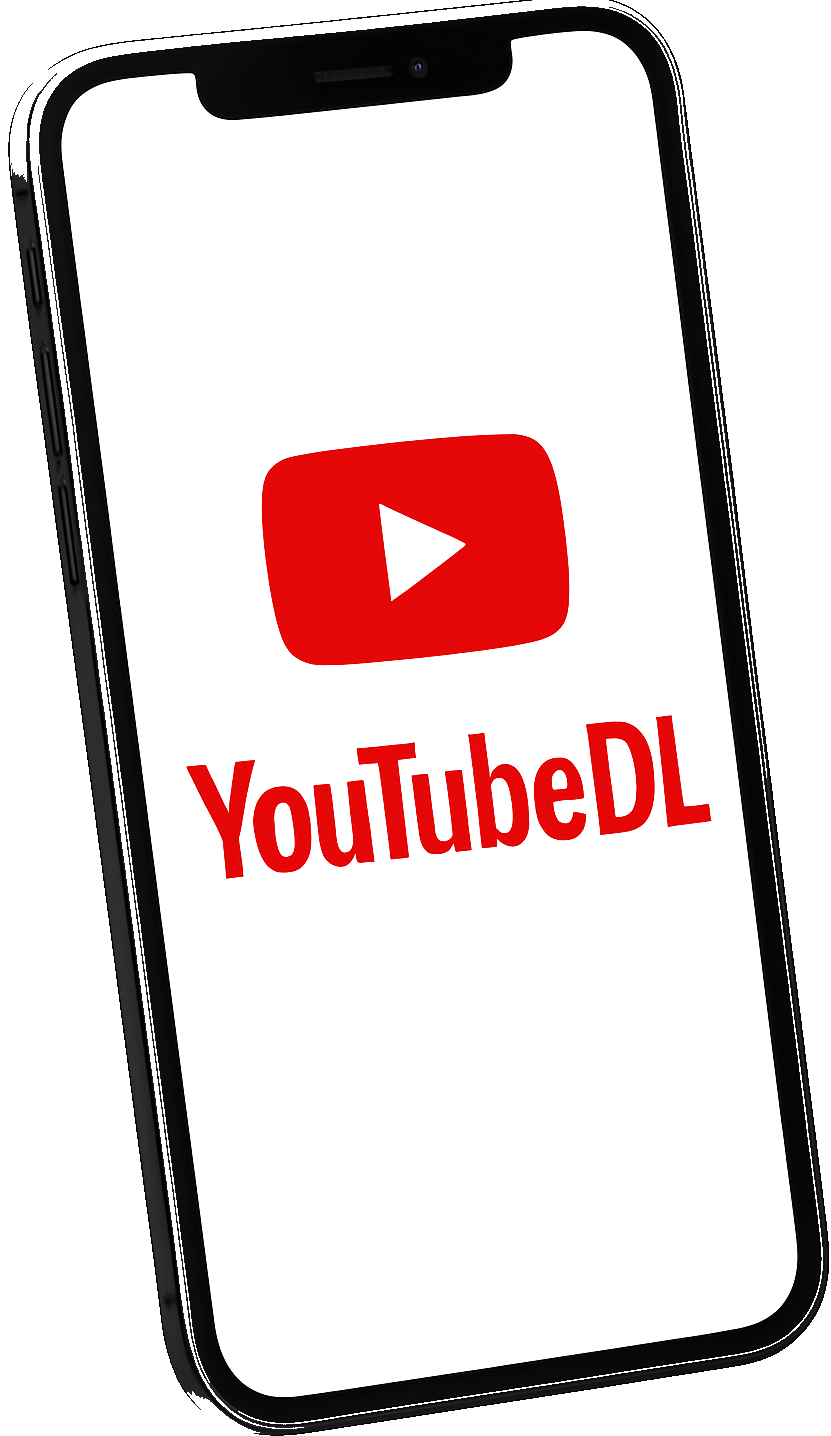
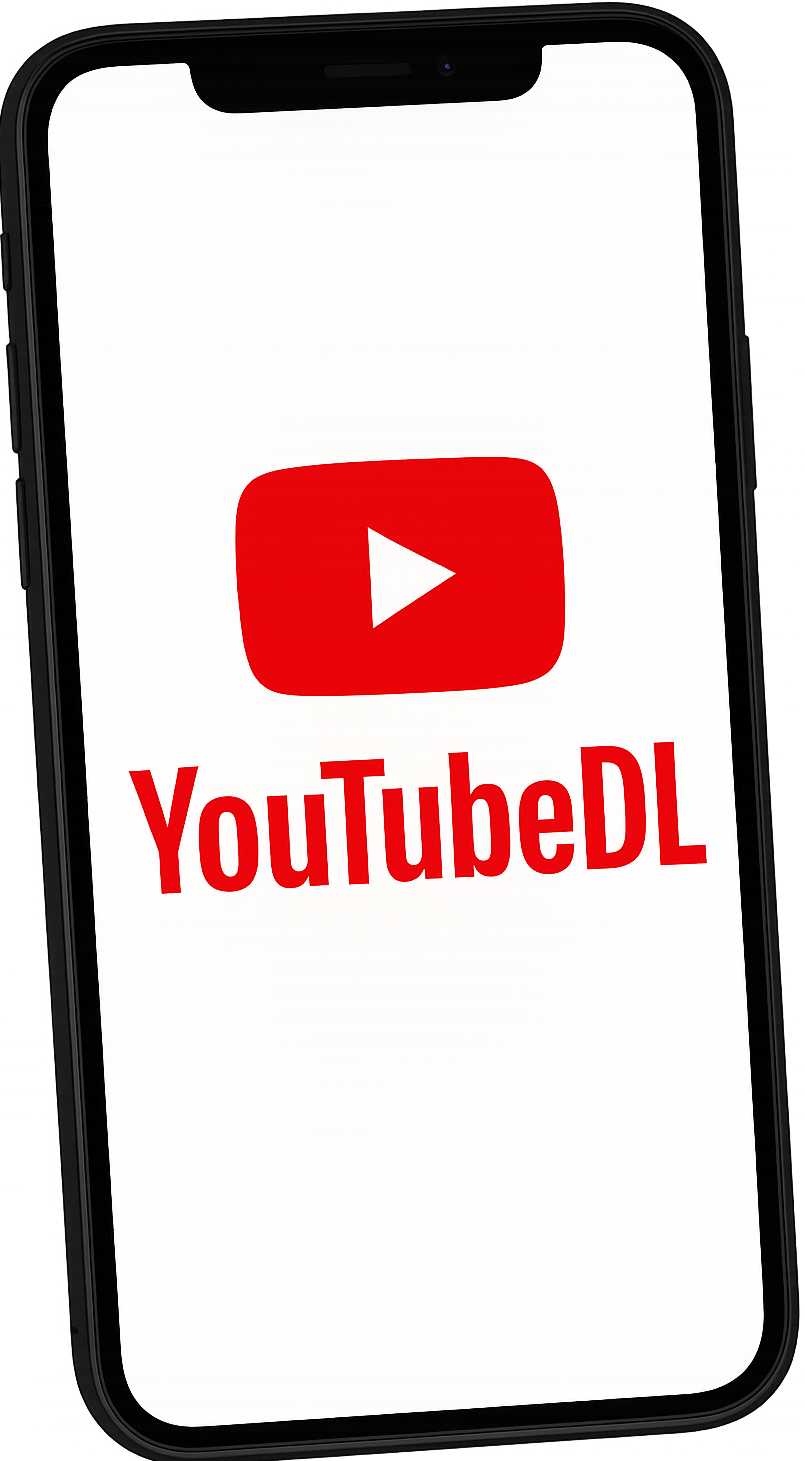
use rapid api for video & shorts & mobile img change

Changed region(s): [[0.0, 0.0, 1.0, 1.0]]

diff --git a/apps/yt-download/src/pages/api/youtube.js b/apps/yt-download/src/pages/api/youtube.js
@@ -1,78 +1,43 @@
-// import { getYoutubeVideoData } from "@/lib/youtubeData";
-// import { getYoutubePostData } from "@/lib/youtubeiPost";
-
-// export default async function handler(req, res) {
-//     if (req.method !== "POST") {
-//         return res.status(405).json({ error: "Method not allowed" });
-//     }
-
-//     try {
-//         const { url } = req.body;
-//         if (!url) return res.status(400).json({ error: "Missing URL" });
-
-//         const u = new URL(url);
-
-//         // ---- Detect type ----
-//         if (u.pathname.startsWith("/post/")) {
-//             // YouTube Post
-//             const postId = u.pathname.split("/post/")[1];
-//             if (!postId) return res.status(400).json({ error: "Invalid post URL" });
-
-//             const postData = await getYoutubePostData(postId);
-//             return res.status(200).json({ detectedType: "post", ...postData });
-//         } else {
-//             // Video or Shorts
-//             let videoId = null;
-//             if (u.searchParams.has("v")) videoId = u.searchParams.get("v");
-//             else if (/\/shorts\/([a-zA-Z0-9_-]+)/.test(u.pathname))
-//                 videoId = u.pathname.split("/shorts/")[1];
-//             else return res.status(400).json({ error: "Invalid YouTube video URL" });
-
-//             const videoData = await getYoutubeVideoData(videoId);
-//             return res.status(200).json({
-//                 detectedType: /\/shorts\//i.test(url) ? "shorts" : "video",
-//                 ...videoData,
-//             });
-//         }
-//     } catch (err) {
-//         console.error("API error:", err);
-//         res.status(500).json({ error: err.message || "Server error" });
-//     }
-// }
-import { getYoutubeVideoData } from "@/lib/youtubeData";
-import { getYoutubePostData } from "@/lib/youtubeiPost";
+import { fetchYoutubeMedia, fetchYoutubePost } from "@/lib/youtubeRapidApis";
 
 export default async function handler(req, res) {
     if (req.method !== "POST") {
         return res.status(405).json({ error: "Method not allowed" });
     }
 
+    const { url } = req.body;
+    if (!url) return res.status(400).json({ error: "Missing URL" });
+
+    const getMediaTypeFromUrl = (url) => {
+        if (/\/shorts\//i.test(url)) return "shorts";
+        if (/\/watch\//i.test(url) || /v=/.test(url)) return "video";
+        if (/\/posts?\//i.test(url)) return "post";
+        return "video";
+    };
+
+    const detectedType = getMediaTypeFromUrl(url);
+
     try {
-        const { url } = req.body;
-        if (!url) return res.status(400).json({ error: "Missing URL" });
+        let data;
 
-        const u = new URL(url);
+        if (detectedType === "video" || detectedType === "shorts") {
+            const match = url.match(
+                /(?:v=|youtu\.be\/|embed\/|shorts\/)([a-zA-Z0-9_-]{11})/
+            );
+            const videoId = match ? match[1] : null;
 
-        // ---- Detect type ----
-        if (u.pathname.startsWith("/post/")) {
-            const postData = await getYoutubePostData(url);
-            return res.status(200).json({ detectedType: "post", ...postData });
-        } else {
-            // Video or Shorts
-            let videoId = null;
-            if (u.searchParams.has("v")) videoId = u.searchParams.get("v");
-            else if (/\/shorts\/([a-zA-Z0-9_-]+)/.test(u.pathname))
-                videoId = u.pathname.split("/shorts/")[1];
-            else return res.status(400).json({ error: "Invalid YouTube video URL" });
+            if (!videoId) throw new Error("Invalid YouTube video URL");
 
-            const videoData = await getYoutubeVideoData(videoId);
-            return res.status(200).json({
-                detectedType: /\/shorts\//i.test(url) ? "shorts" : "video",
-                ...videoData,
-            });
+            data = await fetchYoutubeMedia(videoId);
+            console.log("API response data ------------", data);
+        } else if (detectedType === "post") {
+            const match = url.match(/posts?\/([a-zA-Z0-9_-]+)/);
+            const postId = match ? match[1] : null;
+            data = await fetchYoutubePost(postId);
         }
+        return res.status(200).json(data);
     } catch (err) {
-        console.error("API error:", err);
-        res.status(500).json({ error: err.message || "Server error" });
+        console.error(err);
+        return res.status(500).json({ error: err.message || "Server error" });
     }
 }

diff --git a/apps/yt-download/src/youtubeModal/ui/BottomActivityPanel/BottomActivityPanel.jsx b/apps/yt-download/src/youtubeModal/ui/BottomActivityPanel/BottomActivityPanel.jsx
@@ -27,17 +27,36 @@ export default function BottomActivityPanel({ data }) {
     comments,
   } = data;
 
-  console.log(currentMediaUrl, "check here-------------");
+  // const handleDownloadClick = (url, index) => {
+  //   if (!url || typeof url !== "string") return;
 
+  //   const a = document.createElement("a");
+  //   a.href =
+  //     "https://rr4---sn-p5qs7nzr.googlevideo.com/videoplayback?expire=1758822488&ei=-CvVaK24B4TLsfIP3ryBiQg&ip=38.13.172.67&id=o-AM3O4Ag222VqpkWdKDaRiSP1WBs663sATEbVP5uAVX4k&itag=18&source=youtube&requiressl=yes&xpc=EgVo2aDSNQ%3D%3D&met=1758800888%2C&mh=K9&mm=31%2C26&mn=sn-p5qs7nzr%2Csn-vgqsrnzz&ms=au%2Conr&mv=m&mvi=4&pl=22&rms=au%2Cau&initcwndbps=523750&bui=ATw7iSVFvVMBGQTSUAUEce9G2J7TvuCbEfYt8_kqAgg9UxWRjns-sBhu8KjKCRgOB1mD8bFedXYKACF4&spc=hcYD5efxicr8JYG0eQt7g6qzYP3hV88jG-pW3yvWJSO_ShcMfAg5gFPbI6RhanMAG6-3zg&vprv=1&svpuc=1&mime=video%2Fmp4&ns=m8vtw9mrC4U92baYtI-8YQUQ&rqh=1&gir=yes&clen=48202904&ratebypass=yes&dur=905.090&lmt=1758620704984639&mt=1758800233&fvip=1&fexp=51355912%2C51514994%2C51552689%2C51565116%2C51565682%2C51580968&c=WEB&sefc=1&txp=5538534&n=M13LwnWAbJWO3A&sparams=expire%2Cei%2Cip%2Cid%2Citag%2Csource%2Crequiressl%2Cxpc%2Cbui%2Cspc%2Cvprv%2Csvpuc%2Cmime%2Cns%2Crqh%2Cgir%2Cclen%2Cratebypass%2Cdur%2Clmt&sig=AJfQdSswRQIgLaaAuKPmYN8AiM8uN638A1CikqUWgEcdUZ6jGn8dlOACIQCVv8b_ZHY-bwLaGoLA_Pq55MZVujRrObwE5fJlW3Uimw%3D%3D&lsparams=met%2Cmh%2Cmm%2Cmn%2Cms%2Cmv%2Cmvi%2Cpl%2Crms%2Cinitcwndbps&lsig=APaTxxMwRgIhAI3nZD-FiJerCINnjhSMEiQR2hq8J0Zy3GGvl-RMEyj-AiEAqSGq7u062hY9iRc_G0z-jACqqTFjsa5HMIOT_1J1BFQ%3D&pot=MnQEBRYBYqAlowQ9gzyJJ_WL_SfJAjXgvn2MAEaM3ioXdVHTvm0n5VAhzREO7J3UAzFdknbBDMgBzsbGcoQCdH6iVw3N4Z79bmJ4UR_69thvyqOGsaYgrV1PPJ7qQ_vygL5nrq5YBJmZzAYjaKGI1Vd7YXkOOw%3D%3D&range=0-";
+  //   a.download = `video-${index + 1}.mp4`;
+  //   document.body.appendChild(a);
+  //   a.click();
+  //   a.remove();
+  // };
   const handleDownloadClick = (url, index) => {
     if (!url || typeof url !== "string") return;
 
-    const videoId = url.split("/embed/")[1]; // extract videoId from embed URL
     const a = document.createElement("a");
-    a.href = `/api/download-video?videoId=${videoId}`;
+    a.href = `/api/download?url=${encodeURIComponent(url)}`;
     a.download = `video-${index + 1}.mp4`;
+    document.body.appendChild(a);
     a.click();
+    a.remove();
   };
+
+  // const handleDownloadClick = (m, index) => {
+  //   if (!m || typeof m !== "string") return;
+
+  //   const a = document.createElement("a");
+  //   a.href = m;
+  //   a.download = `video-${index + 1}.mp4`;
+  //   a.click();
+  // };
 
   const handleShareClick = () => {
     sendGAEvent("share_media_click", { mediaCount: mediaUrls.length });
@@ -77,8 +96,9 @@ export default function BottomActivityPanel({ data }) {
         <div className={styles.shareDownload}>
           <button
             className={styles.shareBtn}
-            onClick={() =>
-              handleDownloadClick(currentMediaUrl, currentMediaIndex)
+            onClick={
+              () => handleDownloadClick(currentMediaUrl, currentMediaIndex)
+              // <a href="/"></a>
             }
           >
             {mediaUrls.length > 1

diff --git a/apps/yt-download/src/lib/youtubeRapidApis.js b/apps/yt-download/src/lib/youtubeRapidApis.js
@@ -1,0 +1,54 @@
+import axios from "axios";
+import parseCountText from "@/utils/commentCount";
+
+export async function fetchYoutubeMedia(videoId) {
+    const options = {
+        method: "GET",
+        url: "https://youtube-media-downloader.p.rapidapi.com/v2/video/details",
+        params: {
+            videoId,
+            urlAccess: "normal",
+            videos: "auto",
+            audios: "auto",
+        },
+        headers: {
+            "x-rapidapi-key": process.env.RAPIDAPI_KEY,
+            "x-rapidapi-host": "youtube-media-downloader.p.rapidapi.com",
+        },
+    };
+
+    const response = await axios.request(options);
+    const data = response.data;
+
+    console.log(data, "youtube api response --------");
+
+    const videoItem = data.videos?.items?.[0];
+
+    return {
+        id: videoId,
+        title: data.title || "",
+        description: data.description || "",
+        thumbnail: data.thumbnail || "",
+        media: videoItem ? [{ url: videoItem.url }] : [],
+        statistics: {
+            viewCount: data.viewCount || 0,
+            likeCount: data.likeCount || 0,
+            commentCount: parseCountText(data.commentCountText) || 0,
+        },
+        detectedType: "video",
+        type: "video",
+    };
+}
+
+export async function fetchYoutubePost(postId) {
+    return {
+        id: postId || "unknown",
+        title: "Post Placeholder",
+        description: "",
+        thumbnail: "",
+        media: [],
+        statistics: {},
+        detectedType: "post",
+        type: "post",
+    };
+}

diff --git a/apps/yt-download/src/utils/api.js b/apps/yt-download/src/utils/api.js
@@ -8,37 +8,19 @@ export function getMediaTypeFromUrl(url) {
 export async function downloadYoutubeMedia(url) {
     if (!url || !url.trim()) throw new Error("Please enter a URL");
 
-    const detectedType = getMediaTypeFromUrl(url);
-
     const res = await fetch("/api/youtube", {
         method: "POST",
-        headers: { "Content-Type": "application/json" },
+        headers: { "Content-Type": "application/json", "Content-Disposition": `attachment;filename=video.mp4` },
         body: JSON.stringify({ url }),
     });
 
     const data = await res.json();
+    console.log("api data--------------", data)
+
     if (!res.ok) throw new Error(data.error || "Server error");
 
     const normalized = { ...data };
-
-    normalized.detectedType = detectedType;
-    normalized.type = detectedType;
-
-    if (Array.isArray(normalized.media)) {
-        normalized.media = normalized.media.map((m) => {
-            if (!m || !m.url) return m;
-
-            if (m.url.includes("youtube.com/embed/")) return m;
-
-            const match = (m.url + " " + (normalized.id || "")).match(
-                /(?:v=|youtu\.be\/|embed\/|shorts\/)([a-zA-Z0-9_-]{11})/
-            );
-            const vid = match ? match[1] : normalized.id;
-            const embed = vid ? `https://www.youtube.com/embed/${vid}` : m.url;
-            return { ...m, url: embed };
-        });
-    }
-
+    console.log(normalized, "data normal-------------")
     return normalized;
 }
 

diff --git a/apps/yt-download/src/pages/api/download.js b/apps/yt-download/src/pages/api/download.js
@@ -1,0 +1,21 @@
+import axios from "axios";
+
+export default async function handler(req, res) {
+    const { url } = req.query;
+
+    if (!url) {
+        return res.status(400).json({ error: "Missing video URL" });
+    }
+
+    try {
+        const response = await axios.get(url, { responseType: "stream" });
+
+        res.setHeader("Content-Disposition", "attachment; filename=video.mp4");
+        res.setHeader("Content-Type", "video/mp4");
+
+        response.data.pipe(res);
+    } catch (err) {
+        console.error("Download error:", err.message);
+        res.status(500).json({ error: "Failed to download video" });
+    }
+}

diff --git a/apps/yt-download/src/youtubeModal/ui/MediaVideo/MediaVideo.jsx b/apps/yt-download/src/youtubeModal/ui/MediaVideo/MediaVideo.jsx
@@ -6,13 +6,9 @@ export default function MediaVideo({ src }) {
 
   return (
     <div className={styles.videoWrapper}>
-      <iframe
-        src={`${src}?autoplay=1&mute=1`}
-        title="YouTube video player"
-        frameBorder="0"
-        allow="accelerometer; autoplay; clipboard-write; encrypted-media; gyroscope; picture-in-picture"
-        allowFullScreen
-      />
+      <video src={src} controls autoPlay muted loop className={styles.video}>
+        Your browser does not support the video tag.
+      </video>
     </div>
   );
 }

diff --git a/apps/yt-download/src/dataStore/mediaPreviewTypes.js b/apps/yt-download/src/dataStore/mediaPreviewTypes.js
@@ -9,7 +9,6 @@ export const previewComponentMap = {
     video: (props) => <VideoPreview {...props} />,
 };
 
-
 export default function MediaPreview({ url, mediaData }) {
     const type = mediaData?.detectedType || getMediaTypeFromUrl(url);
     const PreviewComponent = previewComponentMap[type];

diff --git a/apps/yt-download/src/utils/commentCount.js b/apps/yt-download/src/utils/commentCount.js
@@ -1,0 +1,9 @@
+export default function parseCountText(text) {
+    if (!text) return 0;
+    text = text.replace(/,/g, "").trim();
+    if (text.endsWith("K")) return parseFloat(text) * 1_000;
+    if (text.endsWith("M")) return parseFloat(text) * 1_000_000;
+    return parseInt(text, 10);
+}
+
+
